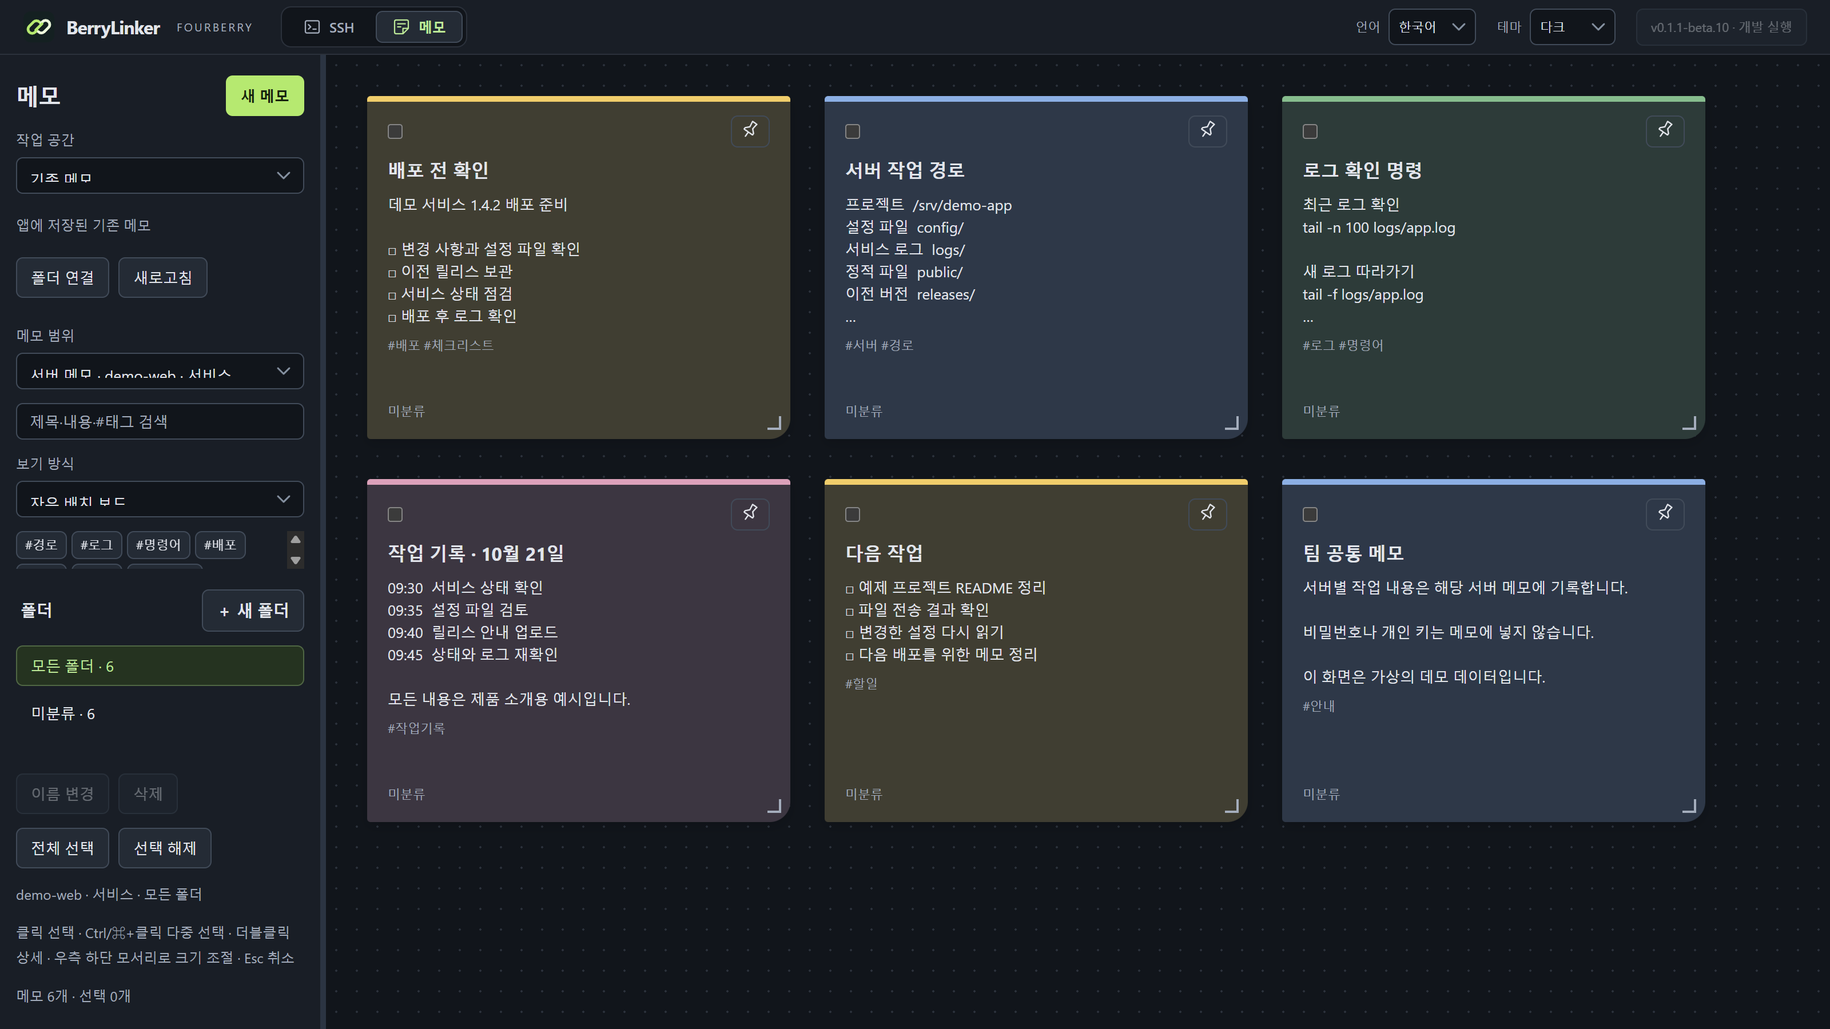
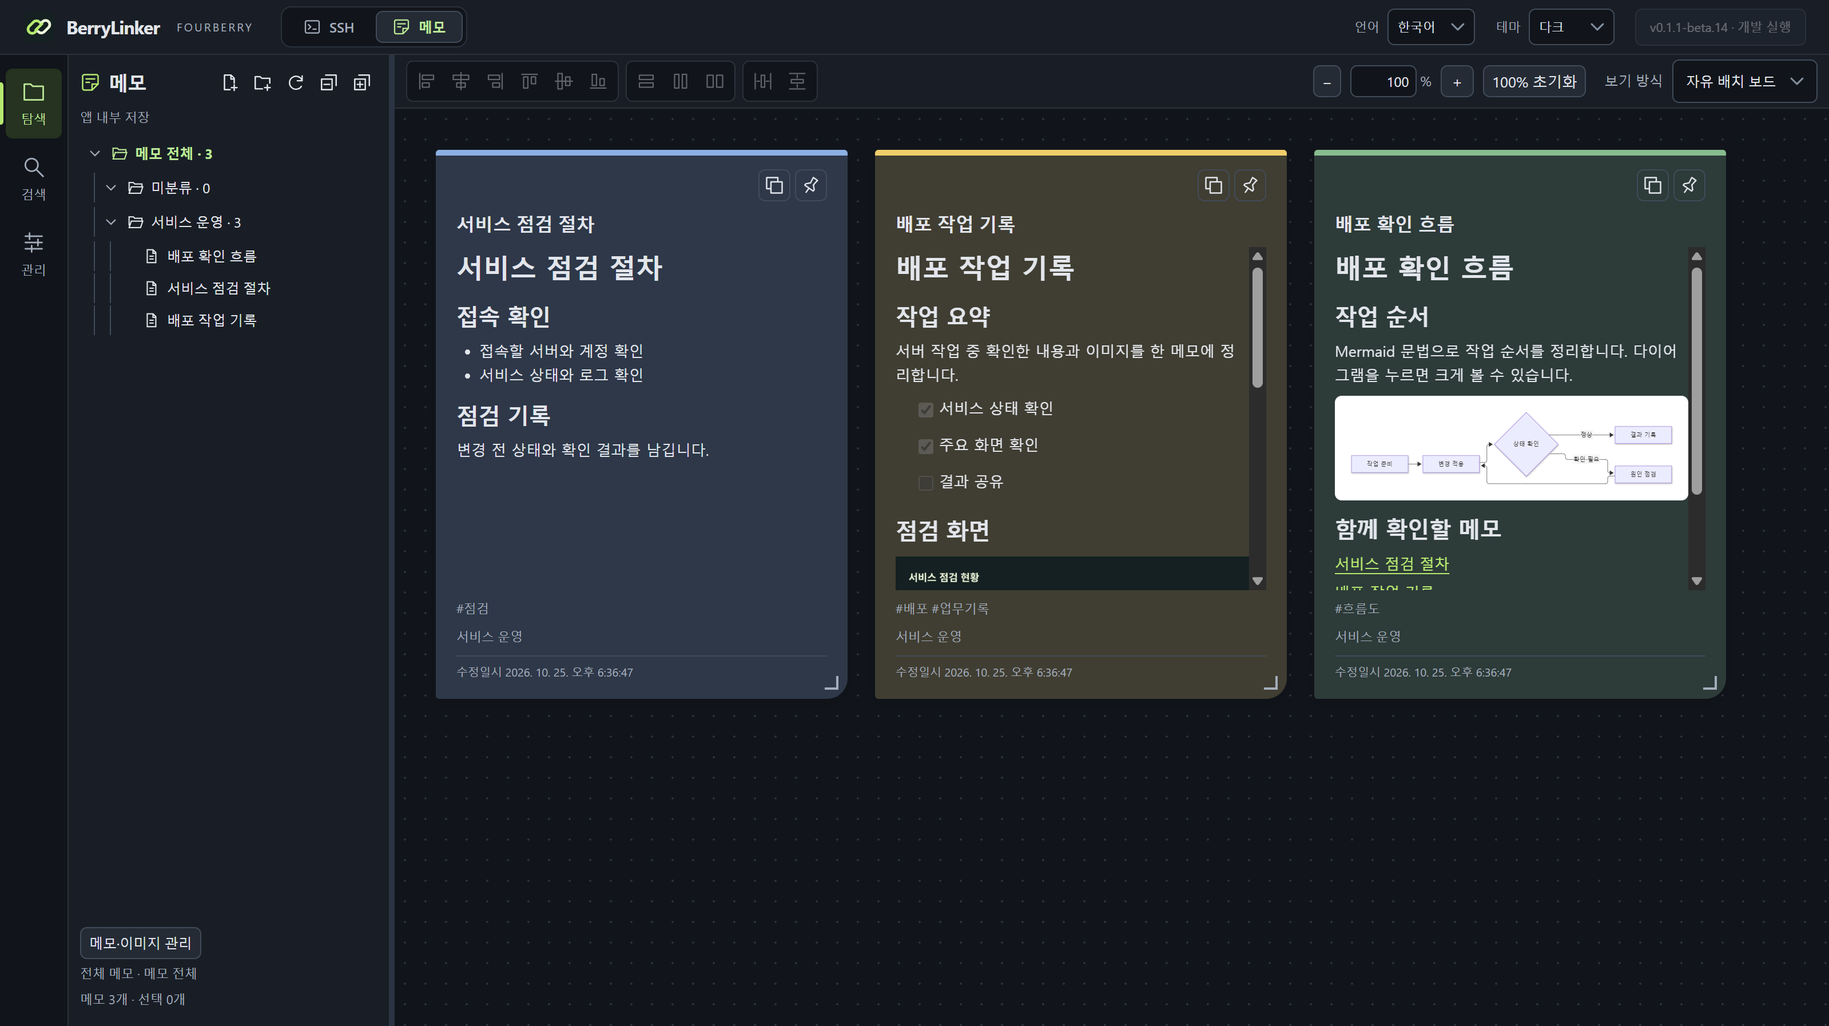
docs: refresh BerryLinker beta.14 brand overview

diff --git a/data/linkberry.ts b/data/linkberry.ts
@@ -59,10 +59,34 @@ export const linkberryScreens = [
     {
         id: 'notes',
         label: '작업 메모',
-        title: '서버 작업에 필요한 정보를 함께 기록',
-        description: '서버별 메모에 작업 경로, 확인할 내용과 작업 기록을 정리하세요. 색상과 태그로 구분하고 메모 보드에 자유롭게 배치할 수 있습니다.',
+        title: '작업 기록을 폴더·태그·보드로 정리',
+        description: '작업 경로와 확인할 내용을 메모로 남기고 폴더·색상·태그로 구분하세요. 메모 보드에서 여러 기록을 나란히 보고 관련 메모로 이어갈 수 있습니다.',
         image: '/images/solutions/linkberry/notes.png',
-        alt: '데모 서버의 배포 확인 목록, 작업 경로, 로그 명령어와 작업 기록을 색상과 태그로 구분한 BerryLinker 메모 보드.',
+        alt: 'BerryLinker beta.14 메모 보드에 서비스 점검 절차, 배포 작업 기록과 배포 확인 흐름을 폴더·색상·태그로 구분한 예시 화면.',
+    },
+    {
+        id: 'notes-editor',
+        label: '메모 편집',
+        title: '작성하면서 미리보기로 확인',
+        description: 'Markdown 원문과 미리보기를 나란히 보고 너비를 조절하세요. 목차로 제목을 찾아 이동하고 스크롤을 함께 움직이거나 따로 볼 수 있습니다. 이미지를 첨부·붙여넣고 관련 메모를 연결할 수 있습니다.',
+        image: '/images/solutions/linkberry/notes-editor.png',
+        alt: 'BerryLinker beta.14의 제목 목차, Markdown 편집기, 스크롤 함께 이동 선택과 이미지가 표시된 미리보기 화면.',
+    },
+    {
+        id: 'notes-images',
+        label: '이미지 편집',
+        title: '첨부한 이미지를 기록에 맞게 다듬기',
+        description: 'PNG·JPEG를 첨부하거나 붙여넣고 표시 너비·설명을 수정하세요. 자르기·회전 결과는 새 이미지로 저장합니다. 미리보기에서 누르면 휠 확대·축소와 드래그 이동, 화면 맞춤을 사용할 수 있습니다.',
+        image: '/images/solutions/linkberry/notes-images.png',
+        alt: 'BerryLinker beta.14 이미지 편집 창에서 예시 이미지의 표시 너비, 대체 텍스트, 설명과 자르기·회전 도구를 보여주는 화면.',
+    },
+    {
+        id: 'notes-mermaid',
+        label: '다이어그램·연결',
+        title: '작업 흐름을 그리고 관련 메모로 연결',
+        description: 'Mermaid 문법으로 작성한 흐름도와 순서도를 미리보기에서 확인하고 크게 볼 수 있습니다. 관련 메모는 제목을 바꿔도 연결을 유지하며, 이미지·표·다이어그램을 포함한 메모는 PDF로 저장할 수 있습니다.',
+        image: '/images/solutions/linkberry/notes-mermaid.png',
+        alt: 'BerryLinker beta.14 메모 미리보기의 Mermaid 배포 흐름도, 관련 메모 연결 두 개, 제목 목차와 PDF 저장 아이콘.',
     },
 ]
 
@@ -73,16 +97,20 @@ export const linkberryTool: FbSolution = {
     ko: '베리링커',
     tag: 'BETA · Windows · SSH / SFTP',
     image: '/images/solutions/linkberry/mark.svg',
-    desc: '개발자와 서버 관리자를 위한 Windows 원격 접속 도구입니다. SSH 터미널과 SFTP 파일 탐색·전송을 한 앱에서 사용합니다. 현재 사내 사용과 피드백을 중심으로 검증 중인 베타 버전입니다.',
+    desc: '개발자와 서버 관리자를 위한 Windows 원격 접속 도구입니다. SSH 터미널과 SFTP 파일 작업부터 Markdown 메모·이미지·다이어그램을 담은 작업 기록까지 한 앱에서 관리합니다. 현재 사내 사용과 피드백을 중심으로 검증 중인 베타 버전입니다.',
     feats: [
         { t: 'SSH 터미널', d: '여러 서버 연결을 탭과 분할 화면으로 확인합니다.' },
-        { t: 'SFTP 파일 작업', d: '원격 폴더를 탐색하고 파일을 업로드·다운로드·편집합니다.' },
+        { t: 'SFTP 파일 작업', d: '원격 파일을 탐색·전송·편집하고 우클릭이나 F2로 이름을 변경합니다.' },
         { t: '서버 관리', d: '접속 정보를 저장하고 폴더별로 분류합니다.' },
         { t: '인증 방식', d: '비밀번호와 SSH 개인 키 인증을 지원합니다.' },
+        { t: 'Markdown 메모', d: '목차·편집·미리보기로 작업 기록을 작성하고 화면 너비와 스크롤 동작을 조절합니다.' },
+        { t: '이미지와 다이어그램', d: '이미지 첨부·붙여넣기·자르기·회전과 확대 보기, Mermaid 다이어그램을 지원합니다.' },
+        { t: '메모 간 연결 · PDF', d: '관련 메모를 제목 변경에도 유지되는 링크로 연결하고 이미지·표·다이어그램을 PDF로 저장합니다.' },
+        { t: '기록 보관과 복원', d: '메모·이미지를 묶어 백업·가져오기하고 앱 내부 메모의 휴지통·수정 이력에서 복원합니다.' },
     ],
-    seoTitle: 'BerryLinker 베타 — Windows SSH·SFTP 도구 다운로드',
-    seoDescription: '포베리 BerryLinker는 Windows용 SSH·SFTP 원격 접속 도구입니다. 사내 검증 중인 베타 버전의 기능과 제한, 설치 파일 정보, 이용 시 주의사항 및 책임 제한 안내를 확인하고 다운로드하세요.',
-    headline: '서버 접속부터 파일 작업까지,\n하나의 작업 공간에서.',
+    seoTitle: 'BerryLinker 베타 — Windows SSH·SFTP와 Markdown 메모',
+    seoDescription: 'BerryLinker Windows beta.14의 SSH·SFTP, Markdown 메모, 이미지 편집, Mermaid, PDF 저장과 메모 연결을 살펴보세요. 실제 예시 화면과 백업·복원 안내, 베타 제한을 확인하고 다운로드할 수 있습니다.',
+    headline: '서버 접속부터 작업 기록까지,\n하나의 작업 공간에서.',
     category: 'DeveloperApplication',
     problems: ['여러 서버의 터미널과 파일 작업을 함께 확인하고 싶을 때', '자주 사용하는 서버 접속 정보를 폴더로 정리하고 싶을 때'],
     sections: [
@@ -93,6 +121,10 @@ export const linkberryTool: FbSolution = {
         {
             h: '터미널과 파일 작업을 함께 진행합니다',
             body: 'SSH 명령 실행과 SFTP 파일 탐색·전송·텍스트 편집을 제공합니다. 원격 파일의 덮어쓰기나 명령 실행은 실제 서버에 영향을 줍니다. 운영 데이터는 먼저 백업하고 테스트 환경에서 동작을 확인하세요. 전송 결과와 서버 응답을 확인한 뒤 다음 작업을 진행하는 것이 좋습니다.',
+        },
+        {
+            h: '작업 과정과 결과를 함께 남깁니다',
+            body: '메모는 폴더·색상·태그로 정리하고, 별도 창에서 Markdown 원문과 미리보기를 나란히 확인합니다. PNG·JPEG 이미지와 Mermaid 다이어그램을 함께 기록하고 관련 메모로 연결할 수 있습니다. PDF는 공유용 문서로, 메모·이미지 묶음 파일은 백업·가져오기용으로 사용하세요. 메모 백업에는 접속 설정과 인증 정보, 저장하지 않은 초안이 포함되지 않습니다.',
         },
         {
             h: 'PC에서 직접 연결합니다',
@@ -115,8 +147,28 @@ export const linkberryTool: FbSolution = {
             a: 'Windows는 0.1.1-beta.3부터 새 버전을 자동으로 확인하고 백그라운드에서 다운로드합니다. 작업을 마친 뒤 앱을 종료하거나 재시작하여 업데이트를 선택하면 설치합니다. 파일 작업이나 열린 편집기가 있으면 설치를 막습니다. 자동 업데이트가 없는 0.1.1-beta.1 이하 버전은 이번 설치 파일을 한 번 직접 설치해야 합니다. Mac 시험본은 수동 업데이트 방식입니다.',
         },
         {
-            q: '업데이트하면 접속 설정이 유지되나요?',
-            a: '같은 Windows 계정의 기존 앱 설정 폴더를 유지하며, 자동 설치 전에 접속 설정을 별도로 백업합니다. 시험 환경에서 서버·폴더·호스트 지문·개인 키 경로와 암호화된 인증 정보, 언어·테마의 보존을 확인했습니다. 개인 키 원본은 이동하지 않습니다. 다른 계정이나 PC로 옮기는 동작은 별도 이전 작업입니다.',
+            q: '업데이트하면 메모와 설정이 유지되나요?',
+            a: '같은 Windows 계정의 기존 앱 설정 폴더를 유지하며, 자동 설치 전에 접속 설정을 별도로 백업합니다. 시험 환경에서 서버·폴더·호스트 지문·개인 키 경로와 암호화된 인증 정보, 언어·테마의 보존을 확인했습니다. Windows beta.14 업데이트 후 기존 메모·이미지·설정과 연결 문서의 유지를 확인했습니다. 중요한 자료는 업데이트 전 별도로 백업하세요. 개인 키 원본은 이동하지 않습니다. 다른 계정이나 PC로 옮기는 동작은 별도 이전 작업입니다.',
+        },
+        {
+            q: '메모에 이미지와 다이어그램을 넣을 수 있나요?',
+            a: 'Windows beta.14에서는 Markdown 메모에 PNG·JPEG 파일을 첨부하거나 클립보드 이미지를 붙여넣고 미리보기에서 확인할 수 있습니다. 첨부 이미지는 표시 너비·설명 수정과 자르기·회전을 지원하며, 누르면 확대해서 볼 수 있습니다. Mermaid 코드 블록은 다이어그램으로 표시되고 크게 보기와 PDF 저장에도 사용할 수 있습니다.',
+        },
+        {
+            q: '메모를 연결한 뒤 제목을 바꾸면 연결이 끊기나요?',
+            a: '메모 편집 도구의 메모 연결에서 저장된 앱 내부 메모를 찾아 연결할 수 있습니다. 대상 메모의 고유 식별자로 연결하므로 제목을 바꿔도 열 수 있습니다. 이미 넣은 링크의 표시 문구는 자동으로 바뀌지 않습니다. 대상이 휴지통에 있거나 삭제된 경우에는 열 수 없으며, 휴지통에서 복원하면 다시 연결됩니다.',
+        },
+        {
+            q: '메모와 첨부 이미지는 어떻게 백업하나요?',
+            a: '메모·이미지 관리에서 .berrynotes 묶음 파일로 백업하고 가져올 수 있습니다. 메모를 선택하면 선택한 저장 메모와 참조 이미지를, 선택하지 않으면 전체 저장 메모와 현재 연결된 문서를 대상으로 합니다. 연결한 다른 메모가 자동으로 추가되지는 않으므로 필요한 대상도 함께 선택하세요. 서버 접속 설정·인증 정보·저장하지 않은 초안은 포함되지 않습니다. 가져오면 별도 폴더에 새 메모로 추가되며 원래 연결 문서를 덮어쓰지 않습니다.',
+        },
+        {
+            q: '삭제하거나 수정한 메모를 되돌릴 수 있나요?',
+            a: '앱 내부 메모는 삭제하면 휴지통으로 이동하며 복원할 수 있습니다. 수정 이력은 메모별 최근 20개를 보관하고 현재 내용과 비교한 뒤 복원할 수 있습니다. 이 기능은 앱 내부 메모에 적용되며 연결 폴더의 원본 파일에는 적용되지 않습니다. 영구 삭제한 항목과 보관 범위를 벗어난 기록까지 복구하는 기능은 아니므로 별도 백업을 함께 사용하세요.',
+        },
+        {
+            q: '메모를 PDF로 공유할 수 있나요?',
+            a: '저장한 메모와 연결한 TXT·Markdown 문서를 PDF로 저장할 수 있습니다. 미리보기의 이미지·표·Mermaid 다이어그램을 문서에 포함합니다. PDF는 읽기·공유용이며 메모·이미지를 앱으로 복원할 때는 .berrynotes 백업을 사용하세요.',
         },
         {
             q: '업데이트가 실패하면 어떻게 하나요?',

diff --git a/components/brand/LinkberryGallery.vue b/components/brand/LinkberryGallery.vue
@@ -4,7 +4,7 @@
             <div class="section-head">
                 <span class="eyebrow">Workspace tour</span>
                 <h2 id="lb-gallery-title">실제 화면으로 만나는 BerryLinker.</h2>
-                <p class="lead">서버 연결부터 파일 관리와 작업 메모까지, 필요한 기능을 살펴보세요.</p>
+                <p class="lead">서버 연결·파일 관리와 beta.14의 메모·이미지·다이어그램을 실제 예시 화면으로 살펴보세요.</p>
             </div>
 
             <div v-if="enhanced" class="lb-gallery-select" role="group" aria-label="살펴볼 기능 선택" @keydown="onSelectionKey">
@@ -36,7 +36,7 @@
             </div>
 
             <div class="lb-gallery-footer">
-                <p class="lb-gallery-note">데모 데이터로 구성한 실제 BerryLinker 화면입니다. 터미널 출력과 업무 내용은 예시이며, 베타 버전에 따라 화면이 달라질 수 있습니다.</p>
+                <p class="lb-gallery-note">예시 데이터로 구성한 실제 BerryLinker 화면입니다. 메모 화면은 Windows beta.14 기준입니다. 터미널 출력과 업무 내용은 예시이며, 베타 버전에 따라 화면이 달라질 수 있습니다.</p>
                 <div v-if="enhanced" class="lb-gallery-pager" role="group" aria-label="화면 이동">
                     <button type="button" aria-label="이전 기능 화면" @click="move(-1)">←</button>
                     <span aria-live="polite" aria-atomic="true">
@@ -121,7 +121,7 @@ onBeforeUnmount(() => viewer.value?.close())
 <style scoped>
 .lb-gallery-select {
     display: grid;
-    grid-template-columns: repeat(5, minmax(0, 1fr));
+    grid-template-columns: repeat(4, minmax(0, 1fr));
     gap: 10px;
     margin: 32px 0 24px;
 }
@@ -296,7 +296,7 @@ onBeforeUnmount(() => viewer.value?.close())
 }
 @media (max-width: 920px) {
     .lb-gallery-select {
-        grid-template-columns: repeat(3, minmax(0, 1fr));
+        grid-template-columns: repeat(2, minmax(0, 1fr));
     }
     .lb-gallery-copy {
         padding: 22px;
@@ -313,9 +313,6 @@ onBeforeUnmount(() => viewer.value?.close())
     .lb-gallery-select button {
         justify-content: flex-start;
         font-size: 13px;
-    }
-    .lb-gallery-select button:last-child {
-        grid-column: 1 / -1;
     }
     .lb-gallery-copy {
         min-height: 164px;

diff --git a/pages/tools/linkberry.vue b/pages/tools/linkberry.vue
@@ -36,7 +36,7 @@
                             </li>
                             <li>
                                 <span>03</span>
-                                터미널 · 파일 작업
+                                터미널 · 파일 · 작업 기록
                             </li>
                         </ul>
                     </div>
@@ -54,8 +54,8 @@
             <div class="container">
                 <div class="section-head">
                     <span class="eyebrow">Workspace</span>
-                    <h2>원격 작업에 필요한 기본 기능.</h2>
-                    <p class="lead">서버 연결과 파일 작업을 한 앱에서 확인합니다.</p>
+                    <h2>접속부터 기록·공유까지.</h2>
+                    <p class="lead">Windows beta.14에서 서버 연결·파일 작업과 메모·이미지 기록을 함께 이어갑니다.</p>
                 </div>
                 <div class="lb-features">
                     <article v-for="(feature, i) in solution.feats" :key="feature.t">
@@ -194,7 +194,7 @@
             <div class="container">
                 <div class="section-head">
                     <span class="eyebrow">FAQ</span>
-                    <h2>설치 전에 궁금한 점.</h2>
+                    <h2>설치와 사용에 궁금한 점.</h2>
                 </div>
                 <div class="lb-faq">
                     <article v-for="item in solution.faq" :key="item.q">
@@ -328,7 +328,7 @@ useFbJsonLd([solutionJsonLd(solution, linkberryPath), faqJsonLd(solution.faq)])
 }
 .lb-guidance {
     display: grid;
-    grid-template-columns: repeat(3, minmax(0, 1fr));
+    grid-template-columns: repeat(2, minmax(0, 1fr));
     gap: 32px;
     padding-top: 44px;
     margin-top: 44px;

diff --git a/docs/linkberry-beta14-brand.md b/docs/linkberry-beta14-brand.md
@@ -1,0 +1,33 @@
+## 요약
+
+Windows beta.14 기준의 기능 소개·화면·FAQ 갱신입니다. 사용자가 미리보기에서 기능 소개·화면·FAQ의 정상 표시를 확인한 뒤 이번 변경의 커밋과 공개 브랜드 사이트 반영을 승인했습니다. 기존 다운로드와 자동 업데이트는 유지합니다.
+
+## 변경 범위
+
+- 제품 정본 `data/linkberry.ts`: SSH·SFTP 소개를 유지하고 Markdown·목차·편집/미리보기·이미지·Mermaid·메모 연결·PDF·백업/복원 설명을 추가했습니다. 기능 8개와 FAQ 12개이며 홈 도구 요약도 같은 데이터를 사용합니다.
+- 화면: 기존 메모 보드 사진을 beta.14로 교체하고 메모 편집, 이미지 편집, 다이어그램·메모 연결 사진 3개를 추가했습니다. 터미널·파일·원격 편집·명령어의 기존 사진 4개는 보존했습니다. 갤러리는 8개 항목에 맞춰 PC 4열, 모바일 2열로 배치합니다.
+- 페이지: 도입 문구·기능/FAQ 제목·검색 설명을 갱신하고 안내 4개를 PC 2열로 정렬했습니다. 기존 다운로드 폼과 베타 제한·Mac 시험본 안내를 유지합니다.
+- 메모 백업에서 접속 설정·인증 정보·초안 제외, 연결 대상 메모 자동 포함 안 됨, 내부 메모 휴지통/최근 수정 이력 20개 범위를 FAQ에 명시했습니다.
+
+## 공개 문구의 근거와 촬영
+
+제품 동작의 근거는 BerryLinker 저장소의 beta.14 공개 후보, `NOTE_LIBRARY.md`, `NOTE_RETENTION.md`, `NOTE_LINKS.md`와 사용자 인수 결과입니다. 촬영에는 공개 후보와 제품 파일이 같은 beta.14 분리 시험 소스를 사용했습니다. 실제 UI·저장·미리보기·Mermaid 렌더링을 사용하며 화면 요소를 합성하거나 제품 코드를 고치지 않았습니다. 예시 메모 3개와 별도로 만든 서비스 점검 현황 이미지만 사용했습니다. 사용자 메모·연결 폴더·접속 정보·설치 앱은 촬영에 사용하지 않았고 업데이트 기능은 연결하지 않았습니다.
+
+사진은 3198×1794 PNG이며 메모 보드·편집·이미지 편집·다이어그램 화면입니다. 이미지 편집 사진은 도구와 대체 텍스트·설명·표시 너비를 보여주는 실제 창입니다. 기존 SSH 화면까지 모두 beta.14에서 다시 촬영했다고 표현하지 않습니다. 신규 외부 의존성·새 기능·새 경로는 추가하지 않았습니다. 기존 갤러리를 확장했고, 항목 수가 짝수가 되어 필요 없어진 마지막 버튼 전체 폭 CSS만 제거했습니다.
+
+## 검증 결과
+
+- 최종 `npm run generate` 성공: 프리렌더 43개 경로. 기존 Nuxt cache-driver 해석 경고는 남아 있으며 생성 실패는 없었습니다.
+- 기존 배포 `verifySite` 재사용: 색인 대상 15개 URL의 고유 제목·h1 1개·설명·canonical·색인 설정 및 FAQ 본문/JSON-LD 일치 확인.
+- 변경 페이지: 기능 8개·갤러리 8개·FAQ 12개 중복 없음, 설명·이미지 링크·대체 텍스트가 정적 HTML에 존재. FAQ JSON-LD 12개 확인.
+- 다운로드: beta.14 EXE·beta.yml 및 Windows 과거 다운로드 12개 무결성 검증. Mac 파일 4개의 크기·해시 확인. Windows/Mac 릴리스 정본 파일의 Git 변경 없음.
+- 공개 HTML·JS/CSS 번들에 내부 PC 경로·시험 암호·서버 비밀 설정 미노출 확인.
+- 실제 브라우저: 브랜드 페이지 PC 1280×720·1440×1080, 모바일 390×844 가로 넘침 없음. 8개 화면 모두 이미지 정상 로드, 선택·Home/End/방향키 순환, 이미지 확대·Tab 포커스·Esc 닫기·원래 링크로 포커스 복귀 확인. 모바일 확대 이미지 내부 가로 스크롤 확인.
+- 공통 데이터가 반영되는 홈 도구 영역: PC·390px에서 기능 태그 8개와 가로 넘침 없음 확인. 마지막 검사 브라우저 오류/경고 0건.
+- JS 비활성은 정적 HTML과 기존 표시 방어 코드를 확인했으며, 실제 브라우저의 JS 차단 시험은 하지 않았습니다. 모션 감소는 기존 `prefers-reduced-motion` 규칙 보존과 자동 전환·신규 애니메이션 없음으로 코드 확인했습니다. 실기 휴대전화·다른 브라우저·스크린리더 음성 출력·실제 검색 색인/AI 인용 성과는 미검증입니다.
+
+## 확인과 배포 상태
+
+로컬 미리보기: `http://127.0.0.1:4000/tools/linkberry/#screens`.
+
+홈페이지 원본 Checkout의 `main`, 기준 HEAD `72857cedad34c0d025b1941d093d174988f20b1e`에서 작성하고 사용자 확인·배포 승인을 받은 변경입니다. 이 Checkout을 재사용해 커밋하고 `main` Push로 GitHub Pages 배포를 진행합니다. 최종 실행 결과는 해당 커밋의 GitHub Actions 기록과 완료 보고에서 확인합니다. 앱 프로그램과 설치 데이터·설정, 기존 공개 다운로드·자동 업데이트 피드는 변경하지 않습니다.
